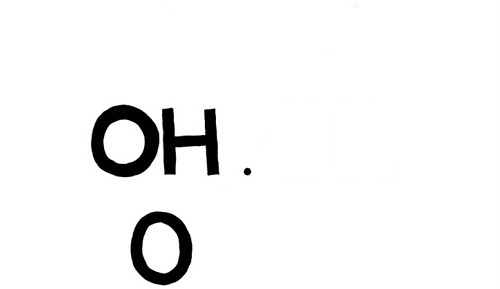
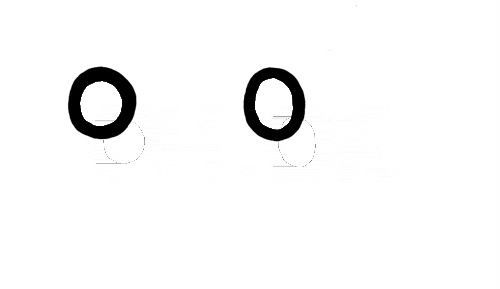
complete

diff --git a/main2.py b/main2.py
@@ -40,11 +40,19 @@ def find_inter_region(contours,i):
 	#print(mask)
 	return mask
 
+def find_nearest_color(img,mask,coord):
+	x,y = coord
+	while np.all(mask[x][y]):
+		y += 1
+	if not np.all(mask[x][y]) and not np.all(mask[x][y+1]) and not np.all(mask[x][y+2]):
+		return img[x,y+1]
+	return (255,255,255)
+
 
 
 
 # Read image, convert to black/white, find the contours, remove  outline of image
-img = cv2.imread('example_01.jpg')
+img = cv2.imread('example_02.jpg')
 new_img =img.copy() 
 img_gray = cv2.cvtColor(img,cv2.COLOR_BGR2GRAY)
 ret,thresh = cv2.threshold(img_gray,127,255,0)
@@ -90,7 +98,7 @@ def on_click(event,x,y,flags,param):
 
 cv2.namedWindow('image')
 cv2.setMouseCallback('image',on_click)
-img = cv2.imread('example_01.jpg')
+img = cv2.imread('example_02.jpg')
 cv2.imshow('image',img)
 cv2.waitKey(0)
 cv2.destroyAllWindows()
@@ -126,14 +134,15 @@ for i in selected_contours:
 	for x in range(len(mask)):
 		for y in range(len(mask[0])):
 			if np.all(mask[x][y]):
-				new_img[x,y] = (0,0,255)
-	cv2.imshow('aaa',new_img)	
-	cv2.waitKey(0)
+				#new_img[x,y] = (0,0,255)
+				#print(find_nearest_color(img,mask,[x,y]))
+				new_img[x,y] = find_nearest_color(img,mask,[x,y])
+	#cv2.imshow('aaa',new_img)	
+	#cv2.waitKey(0)
 
 
 #cv2.waitKey(1000)
 
-#x1 = y1 = 0
 dx, dy = x3-x1, y3-y1
 print(dx,dy)
 # Draw the new contours
@@ -146,9 +155,8 @@ for i in selected_contours:
 			if np.all(mask[x][y]):
 				new_img[x+dx,y+dy] = img[x,y]
 
-	cv2.imwrite('new' + str(i) + '.jpg',new_img)
+	cv2.imwrite('new2' + str(i) + '.jpg',new_img)
 
 # Save the image
-#new_img[0:50,0:50] = img[50:100,50:100]
-cv2.imwrite('new.jpg',new_img)
+cv2.imwrite('new2.jpg',new_img)
 print('Done')
